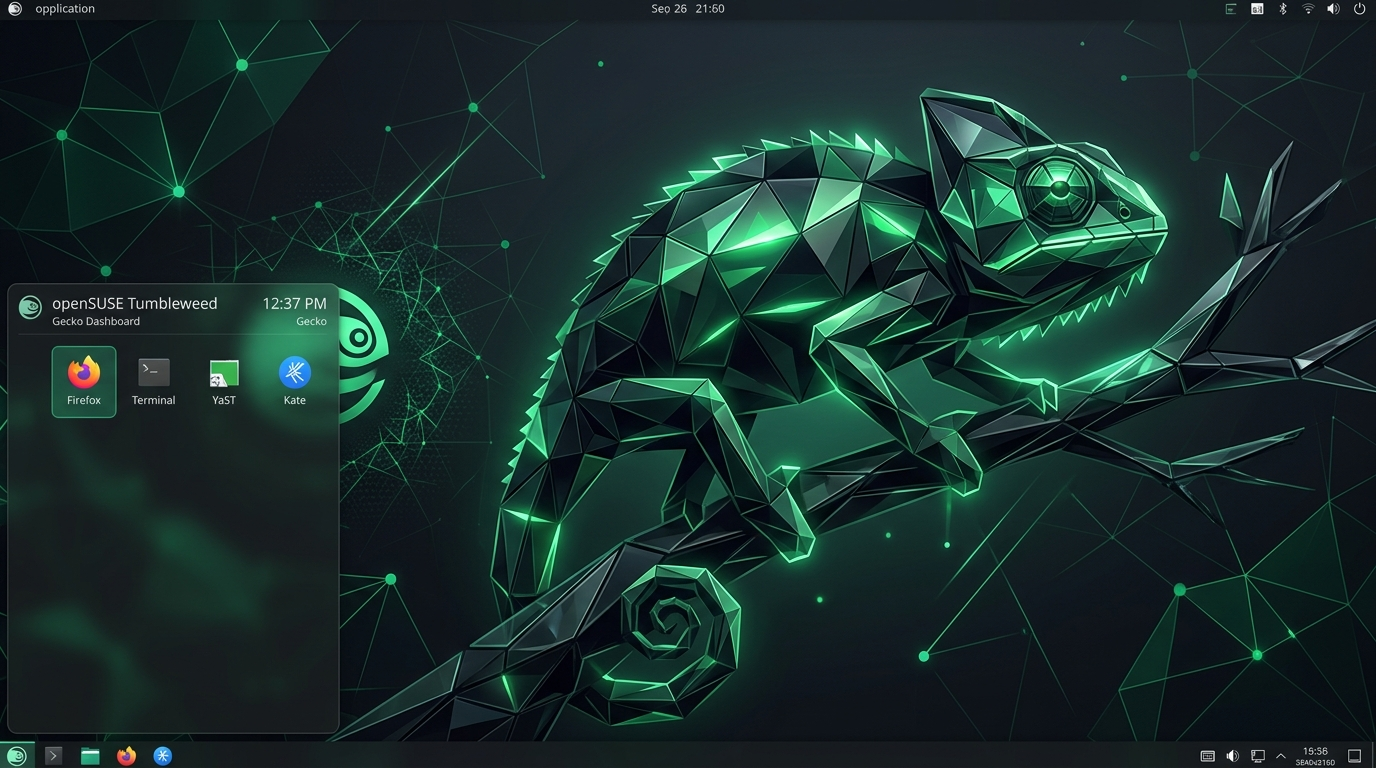
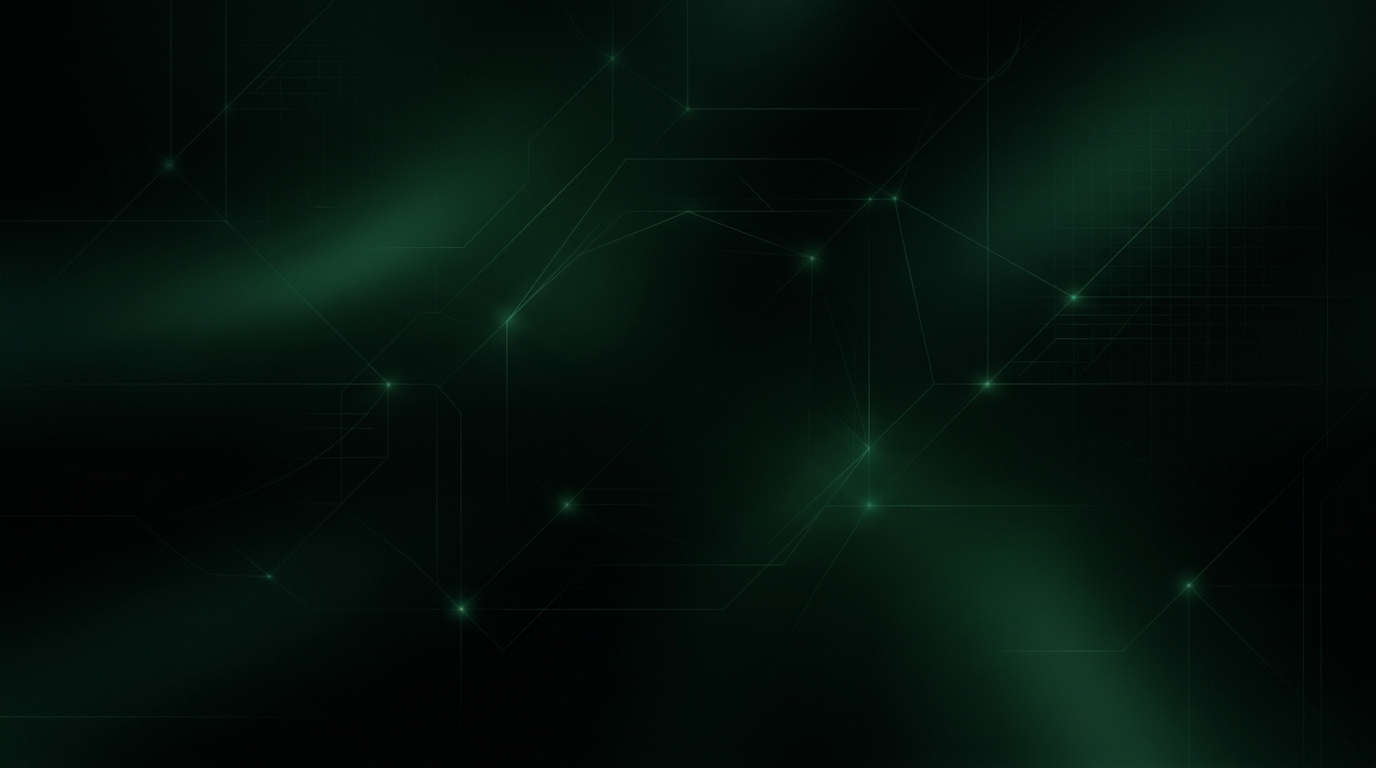
Fix: Remove toxic modesetting Xorg override and inject KERNEL_PARAMS into grub template for Plymouth

diff --git a/suse_builder/core/customizer.py b/suse_builder/core/customizer.py
@@ -149,21 +149,7 @@ class SystemCustomizer:
         except Exception as e:
             logger.warning(f"Failed to remove xf86-video-vmware: {e}")
 
-        # Fix invisible mouse cursor in VirtualBox with modesetting driver
-        try:
-            xorg_conf_dir = self.target_root / "etc" / "X11" / "xorg.conf.d"
-            xorg_conf_dir.mkdir(parents=True, exist_ok=True)
-            vbox_mouse_fix = xorg_conf_dir / "20-modesetting.conf"
-            vbox_mouse_fix.write_text(
-                'Section "Device"\n'
-                '    Identifier "modesetting"\n'
-                '    Driver "modesetting"\n'
-                '    Option "SWCursor" "on"\n'
-                'EndSection\n'
-            )
-            logger.info("Added SWCursor fix for modesetting driver.")
-        except Exception as e:
-            logger.warning(f"Failed to write SWCursor fix: {e}")
+        # (Removed dangerous modesetting Xorg override that crashes XFCE)
 
         for auto_svc in auto_services:
             if auto_svc not in services_to_enable:
